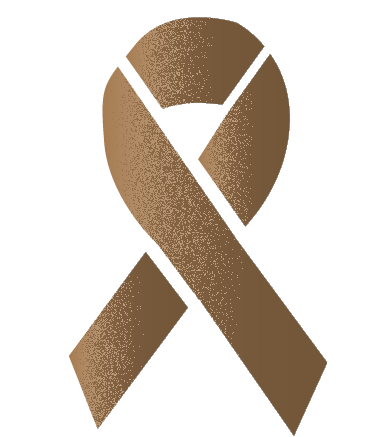
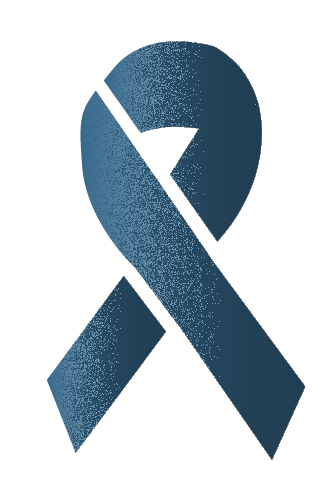
Color and some style changes

diff --git a/style.css b/style.css
@@ -7,36 +7,39 @@ html {
 }
 
 body {
-
 	min-height: 100%;
-	background-color
 }
 
 .side-image img{
 	position: absolute;
-	top: 80%;
-	left: 115%;
+	top: 40%;
+	left: 60%;
 	transform: translateY(-50%);
+
 }
 
 .info {
+	height: 100%;
+	width: 100%;
 	position: absolute;
-	top: 40%;
-	left: 5%;
+	top: 50%;
+	left: 0%;
+	margin: 0 4em;
 	transform: translateY(-50%);
 }
 
 
 .header {
+	overflow-x: hidden;
 	display: block;
 	font-weight: bold;
-	color: #A67C52;
+	color: #37698C;
+	height: 500px;
 }
 
 .header-text{
-	font-size: 7.2vw;
+	font-size: 7.5vw;
 
-	margin-bottom: 0.25em;
 }
 
 .header-text img {
@@ -54,8 +57,8 @@ body {
 
 .submission {
 	position: absolute;
-	left: 4%;
-	top: 65%;
+	margin-left: 3em;
+	top: 55%;
 	background-color: Transparent;
     background-repeat:no-repeat;
     border: none;
@@ -70,9 +73,9 @@ body {
 
 .submission button {
 	padding: 1em 2em;
-	color: #A67C52;
+	color: #37698C;
 	background-color: rgba(255,255,255, 0);
-	border: 1px solid #A67C52;
+	border: 1px solid #37698C;
 	border-radius: 20px;
 	cursor: pointer;
 	margin: 0.25em 0;
@@ -80,9 +83,9 @@ body {
 }
 
 .submission button:hover {
-	background-color: #A67C52;
+	background-color: #37698C;
 	color: white;
-	border: 1px solid  #A67C52;
+	border: 1px solid  #37698C;
 }
 
 
